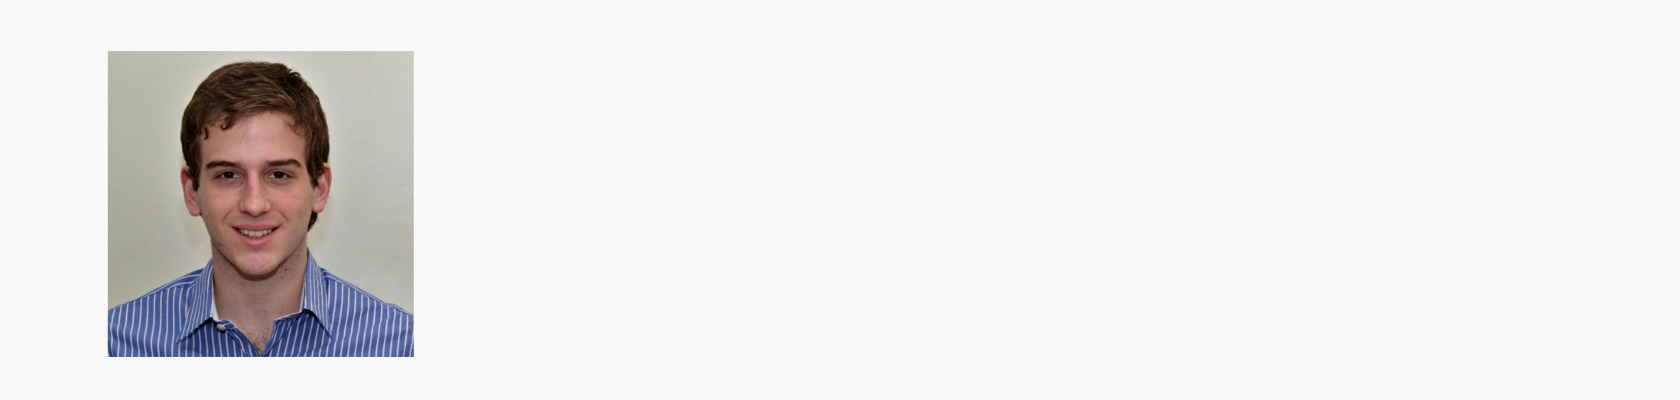
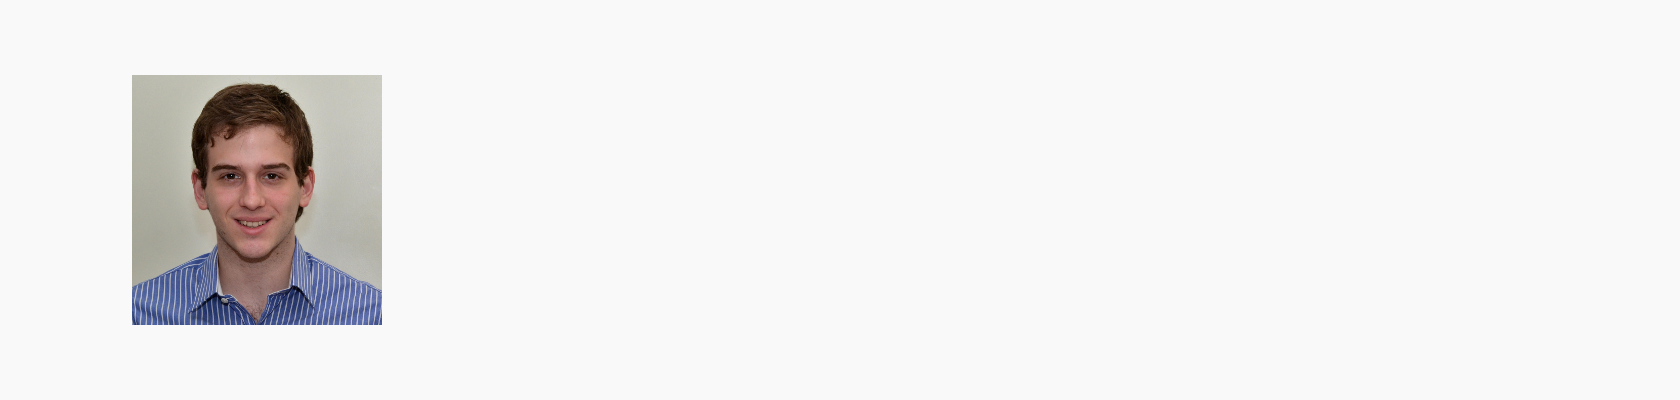
several improvements, fixed the bio picture to right size

Changed region(s): [[0.0619, 0.12, 0.2476, 0.9]]

diff --git a/index.html b/index.html
@@ -162,8 +162,8 @@ Smartphone Compatible web template, free webdesigns for Nokia, Samsung, LG, Sony
 		</div>
 	</div>
 <!-- //about -->
-<<!-- Begin MailChimp Signup Form -->
-<div id="optin" style="width: 60%; margin:0 auto">
+<!-- Begin MailChimp Signup Form -->
+<div id="optin" style="width: 100%; margin:0 auto">
 <form action="//alonsebastian.us11.list-manage.com/subscribe/post?u=c02262a2a8865c7e4fb84cb01&amp;id=b937e9f103" method="post" id="mc-embedded-subscribe-form" name="mc-embedded-subscribe-form" class="validate" target="_blank" novalidate>
     <div id="mc_embed_signup_scroll">
 <center>
@@ -175,7 +175,7 @@ Smartphone Compatible web template, free webdesigns for Nokia, Samsung, LG, Sony
 		<div class="response" id="mce-success-response" style="display:none"></div>
 
     <div style="position: absolute; left: -5000px;"><input type="text" name="b_c02262a2a8865c7e4fb84cb01_b937e9f103" tabindex="-1" value=""></div>
-    <div class="clear"><input type="submit" value="Subscribirse" name="subscribe" id="mc-embedded-subscribe" class="button"></div>
+    <div class="clear"><input type="submit" value="Suscribirse" name="subscribe" id="mc-embedded-subscribe" class="button"></div>
     </div>
 </center>
 </form>
